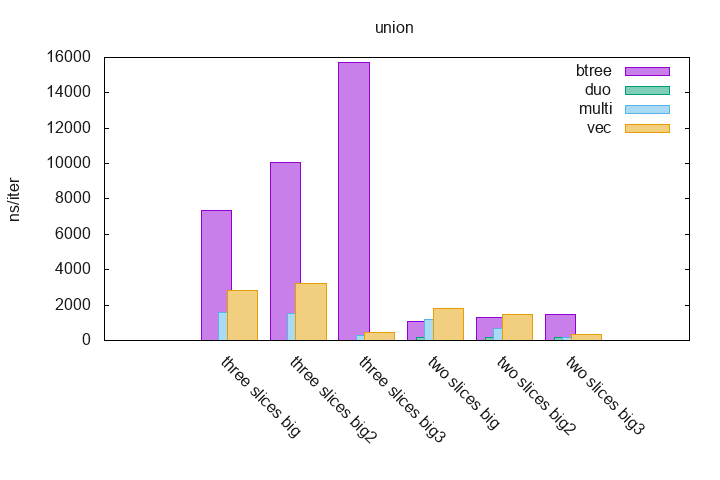
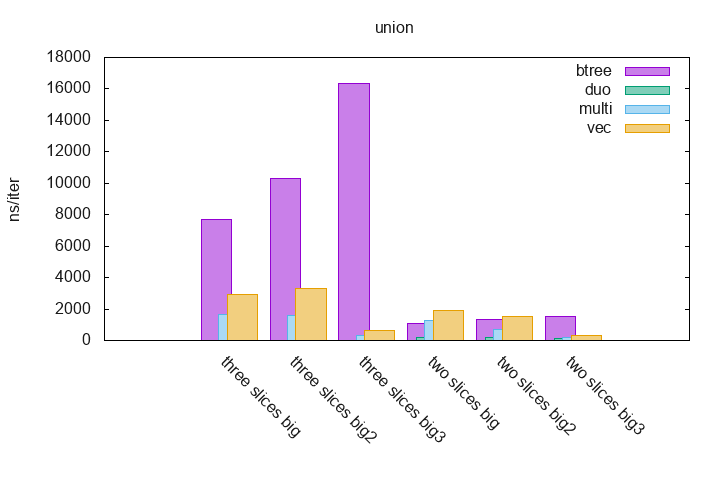
test: Update btree and vec benchmarks

diff --git a/src/lib.rs b/src/lib.rs
@@ -107,11 +107,11 @@ mod bench {
                 let a: Vec<_> = (0..100).collect();
                 let b: Vec<_> = (51..151).collect();
 
-                let base = BTreeSet::from_iter(a);
+                let a = BTreeSet::from_iter(a);
                 let b = BTreeSet::from_iter(b);
 
                 bench.iter(|| {
-                    let set: Vec<_> = base.difference(&b).cloned().collect();
+                    let set: Vec<_> = a.difference(&b).cloned().collect();
                     test::black_box(|| set);
                 });
             }
@@ -124,11 +124,11 @@ mod bench {
                 let a: Vec<_> = (0..100).collect();
                 let b: Vec<_> = (100..200).collect();
 
-                let base = BTreeSet::from_iter(a);
+                let a = BTreeSet::from_iter(a);
                 let b = BTreeSet::from_iter(b);
 
                 bench.iter(|| {
-                    let set: Vec<_> = base.difference(&b).cloned().collect();
+                    let set: Vec<_> = a.difference(&b).cloned().collect();
                     test::black_box(|| set);
                 });
             }
@@ -147,7 +147,7 @@ mod bench {
                 let c = BTreeSet::from_iter(c);
 
                 bench.iter(|| {
-                    let ab: BTreeSet<_> = a.difference(&b).cloned().collect();
+                    let ab = &a - &b;
                     let set: Vec<_> = ab.difference(&c).cloned().collect();
                     test::black_box(|| set);
                 });
@@ -167,7 +167,7 @@ mod bench {
                 let c = BTreeSet::from_iter(c);
 
                 bench.iter(|| {
-                    let ab: BTreeSet<_> = a.difference(&b).cloned().collect();
+                    let ab = &a - &b;
                     let set: Vec<_> = ab.difference(&c).cloned().collect();
                     test::black_box(|| set);
                 });
@@ -187,7 +187,7 @@ mod bench {
                 let c = BTreeSet::from_iter(c);
 
                 bench.iter(|| {
-                    let ab: BTreeSet<_> = a.difference(&b).cloned().collect();
+                    let ab = &a - &b;
                     let set: Vec<_> = ab.difference(&c).cloned().collect();
                     test::black_box(|| set);
                 });
@@ -223,11 +223,11 @@ mod bench {
                 let a: Vec<_> = (0..100).collect();
                 let b: Vec<_> = (51..151).collect();
 
-                let base = BTreeSet::from_iter(a);
+                let a = BTreeSet::from_iter(a);
                 let b = BTreeSet::from_iter(b);
 
                 bench.iter(|| {
-                    let set: Vec<_> = base.intersection(&b).cloned().collect();
+                    let set: Vec<_> = a.intersection(&b).cloned().collect();
                     test::black_box(|| set);
                 });
             }
@@ -240,11 +240,11 @@ mod bench {
                 let a: Vec<_> = (0..100).collect();
                 let b: Vec<_> = (100..200).collect();
 
-                let base = BTreeSet::from_iter(a);
+                let a = BTreeSet::from_iter(a);
                 let b = BTreeSet::from_iter(b);
 
                 bench.iter(|| {
-                    let set: Vec<_> = base.intersection(&b).cloned().collect();
+                    let set: Vec<_> = a.intersection(&b).cloned().collect();
                     test::black_box(|| set);
                 });
             }
@@ -263,7 +263,7 @@ mod bench {
                 let c = BTreeSet::from_iter(c);
 
                 bench.iter(|| {
-                    let ab: BTreeSet<_> = a.intersection(&b).cloned().collect();
+                    let ab = &a & &b;
                     let set: Vec<_> = ab.intersection(&c).cloned().collect();
                     test::black_box(|| set);
                 });
@@ -283,7 +283,7 @@ mod bench {
                 let c = BTreeSet::from_iter(c);
 
                 bench.iter(|| {
-                    let ab: BTreeSet<_> = a.intersection(&b).cloned().collect();
+                    let ab = &a & &b;
                     let set: Vec<_> = ab.intersection(&c).cloned().collect();
                     test::black_box(|| set);
                 });
@@ -303,7 +303,7 @@ mod bench {
                 let c = BTreeSet::from_iter(c);
 
                 bench.iter(|| {
-                    let ab: BTreeSet<_> = a.intersection(&b).cloned().collect();
+                    let ab = &a & &b;
                     let set: Vec<_> = ab.intersection(&c).cloned().collect();
                     test::black_box(|| set);
                 });
@@ -379,7 +379,7 @@ mod bench {
                 let c = BTreeSet::from_iter(c);
 
                 bench.iter(|| {
-                    let ab: BTreeSet<_> = a.union(&b).cloned().collect();
+                    let ab = &a | &b;
                     let set: Vec<_> = ab.union(&c).cloned().collect();
                     test::black_box(|| set);
                 });
@@ -399,7 +399,7 @@ mod bench {
                 let c = BTreeSet::from_iter(c);
 
                 bench.iter(|| {
-                    let ab: BTreeSet<_> = a.union(&b).cloned().collect();
+                    let ab = &a | &b;
                     let set: Vec<_> = ab.union(&c).cloned().collect();
                     test::black_box(|| set);
                 });
@@ -419,7 +419,7 @@ mod bench {
                 let c = BTreeSet::from_iter(c);
 
                 bench.iter(|| {
-                    let ab: BTreeSet<_> = a.union(&b).cloned().collect();
+                    let ab = &a | &b;
                     let set: Vec<_> = ab.union(&c).cloned().collect();
                     test::black_box(|| set);
                 });

diff --git a/README.md b/README.md
@@ -1,10 +1,10 @@
 # sdset
 
-Set theory applied on sorted and deduplicated slices. Much performances! Such Wow!
+Set theory applied on sorted and deduplicated slices. Much performance! Such Wow!
 
 [Documentation](https://docs.rs/sdset) can be found on docs.rs.
 
-`sdset` stands for `sorted-deduplicated-slices-set-operations` which is a little bit too long.
+`sdset` stands for `sorted-deduplicated-slices-set` which is a little bit too long.
 
 ## Performances
 
@@ -35,11 +35,11 @@ $ ./gen_graphs.sh
 
 This is much more easier to read statistics and to see how `sdset` is more performant on already sorted and deduplicated slices than any other kind of collection.
 
-Note that the `sdset` operation does not need many allocation so it starts with a serious advantage. You can see the variance when running benchmarks.
+Note that the `sdset` set operations does not need many allocations so it starts with a serious advantage. For more information you can see the variance when running benchmarks.
 
-`btree` stands for *two* or *three* `BTreeSet`s which contains runs of integers (see above). The set operation is done on these sets and the final iterator is collected in a final `Vec`.
+`btree` stands for *two* or *three* (see above) `BTreeSet`s which contains runs of integers. The set operation is done on these sets and the final iterator is just iterated over using `Iterator::for_each()`.
 
-`vec` benchmarks are available for the union set operation only, it consist of a `Vec` which is populated with the elements of *two* or *three* slices (see above) and that is sorted and deduplicated.
+`vec` benchmarks are available for the union set operation only, it consist of a `Vec` which is populated with the elements of *two* or *three* slices (see above), sorted and deduplicated.
 
 `duo` and `multi` are the implementations that are part of this crate, the first one can only do set operations on **two** sets and the second one can be used for any given number of sets.
 
